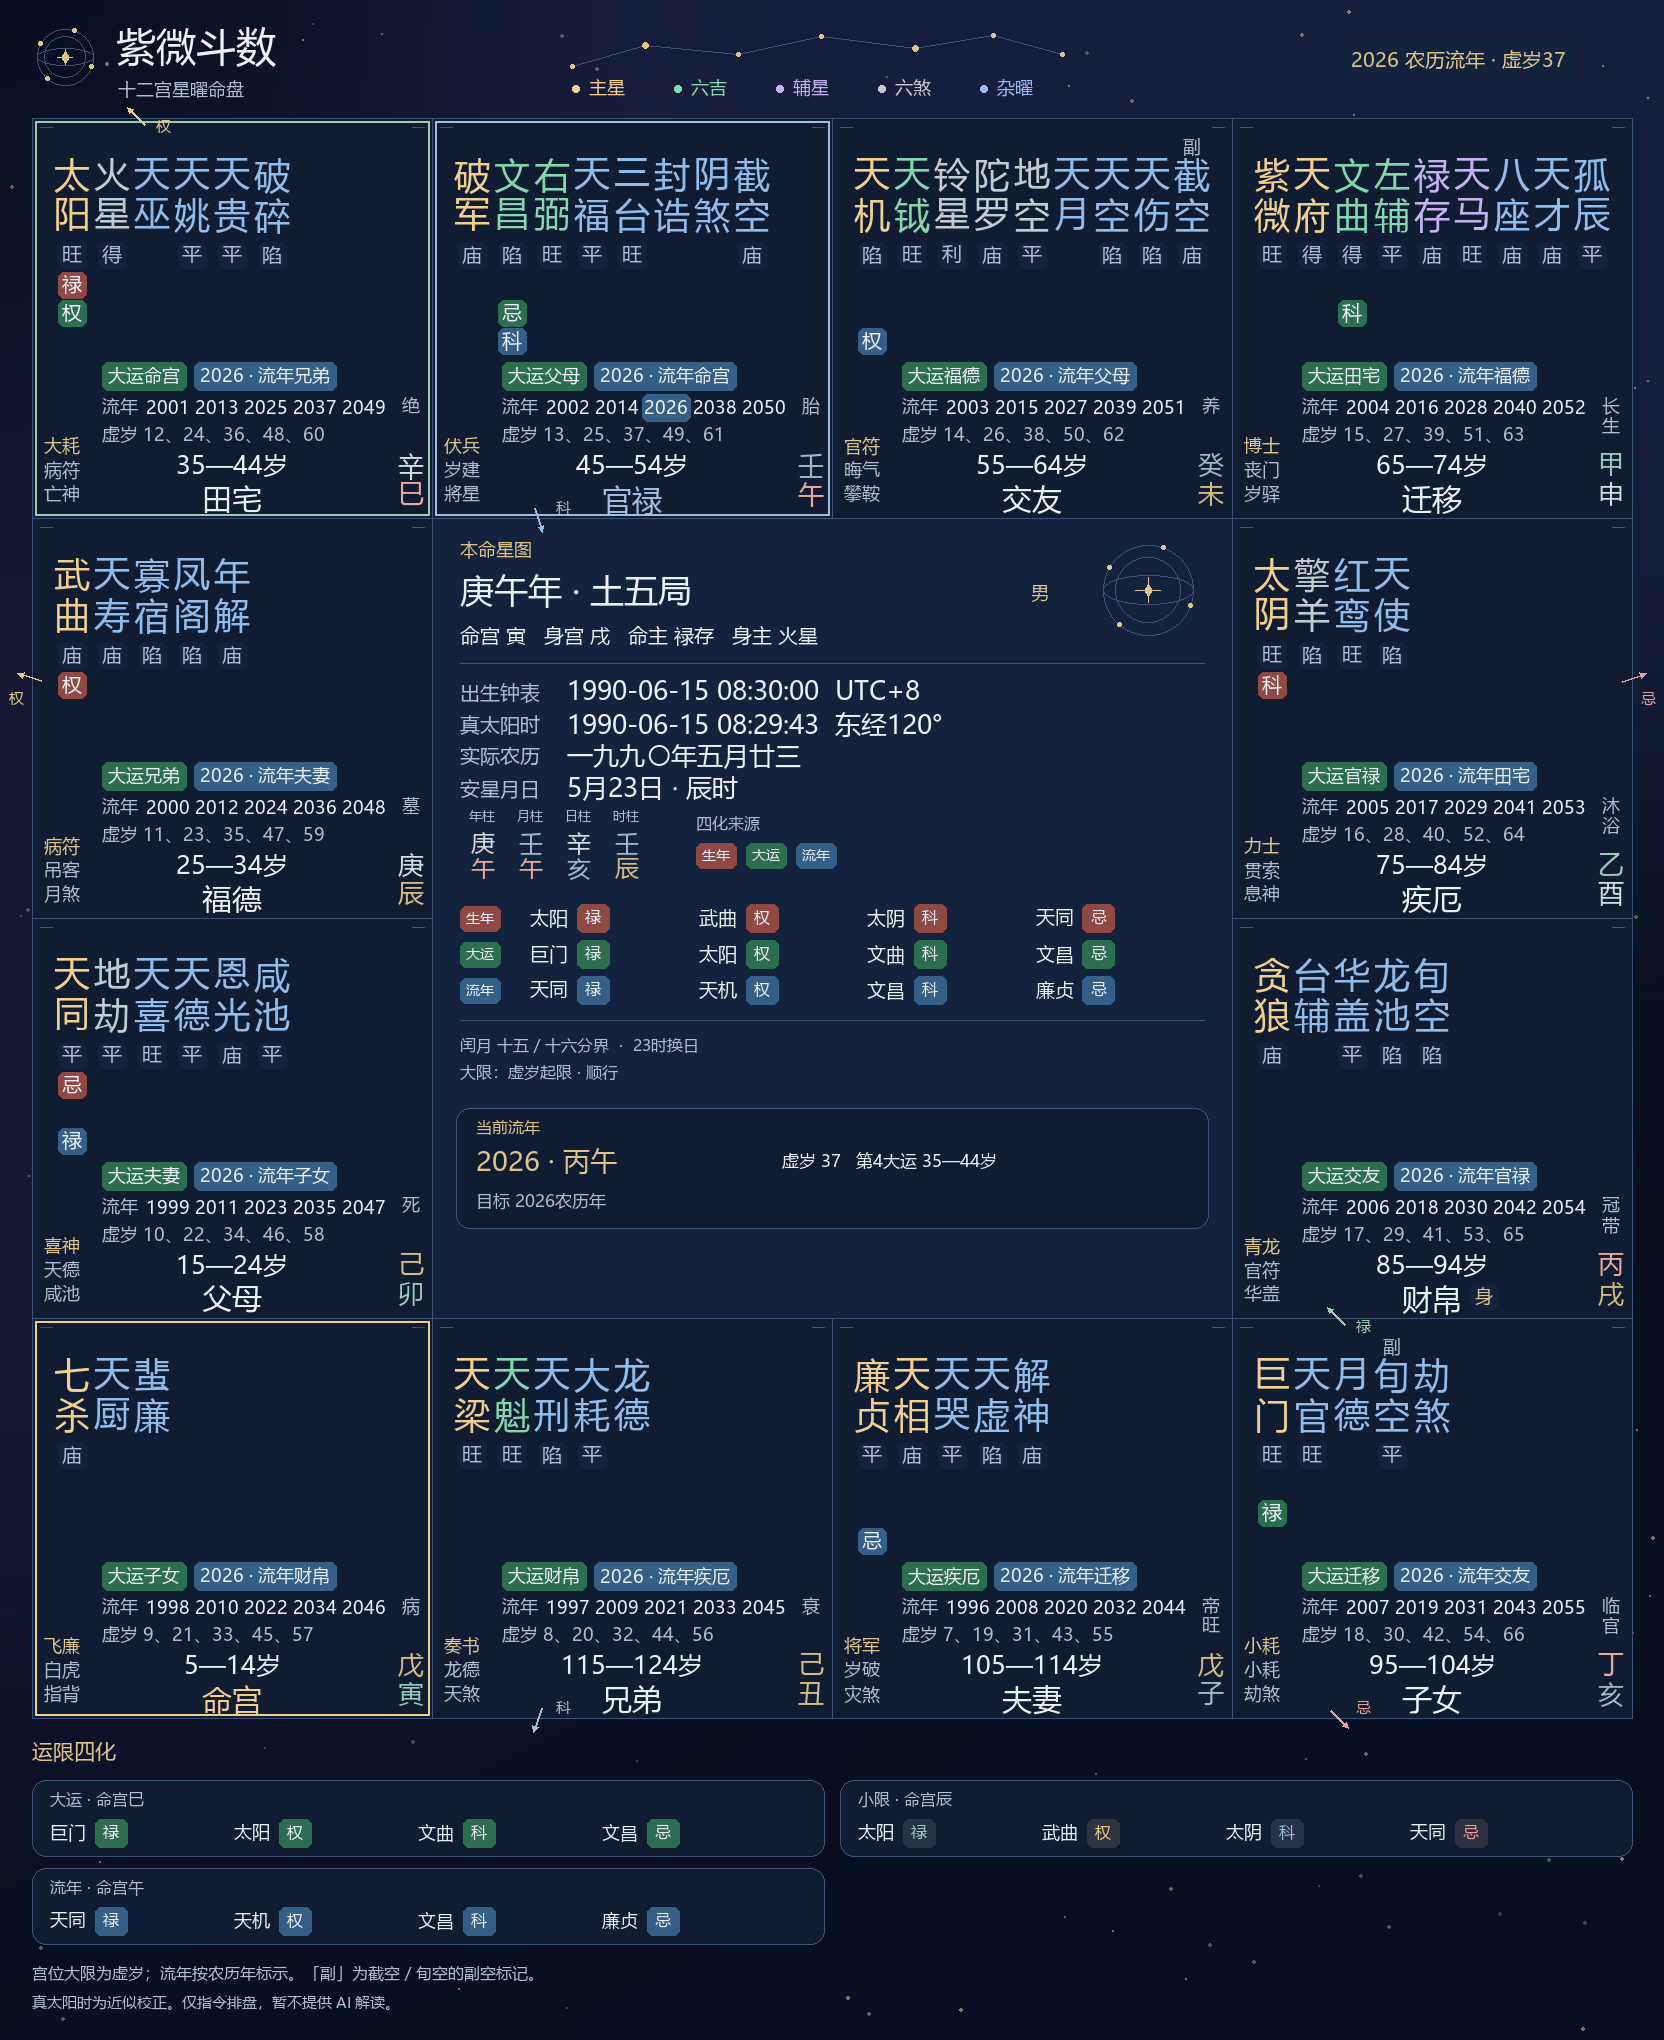
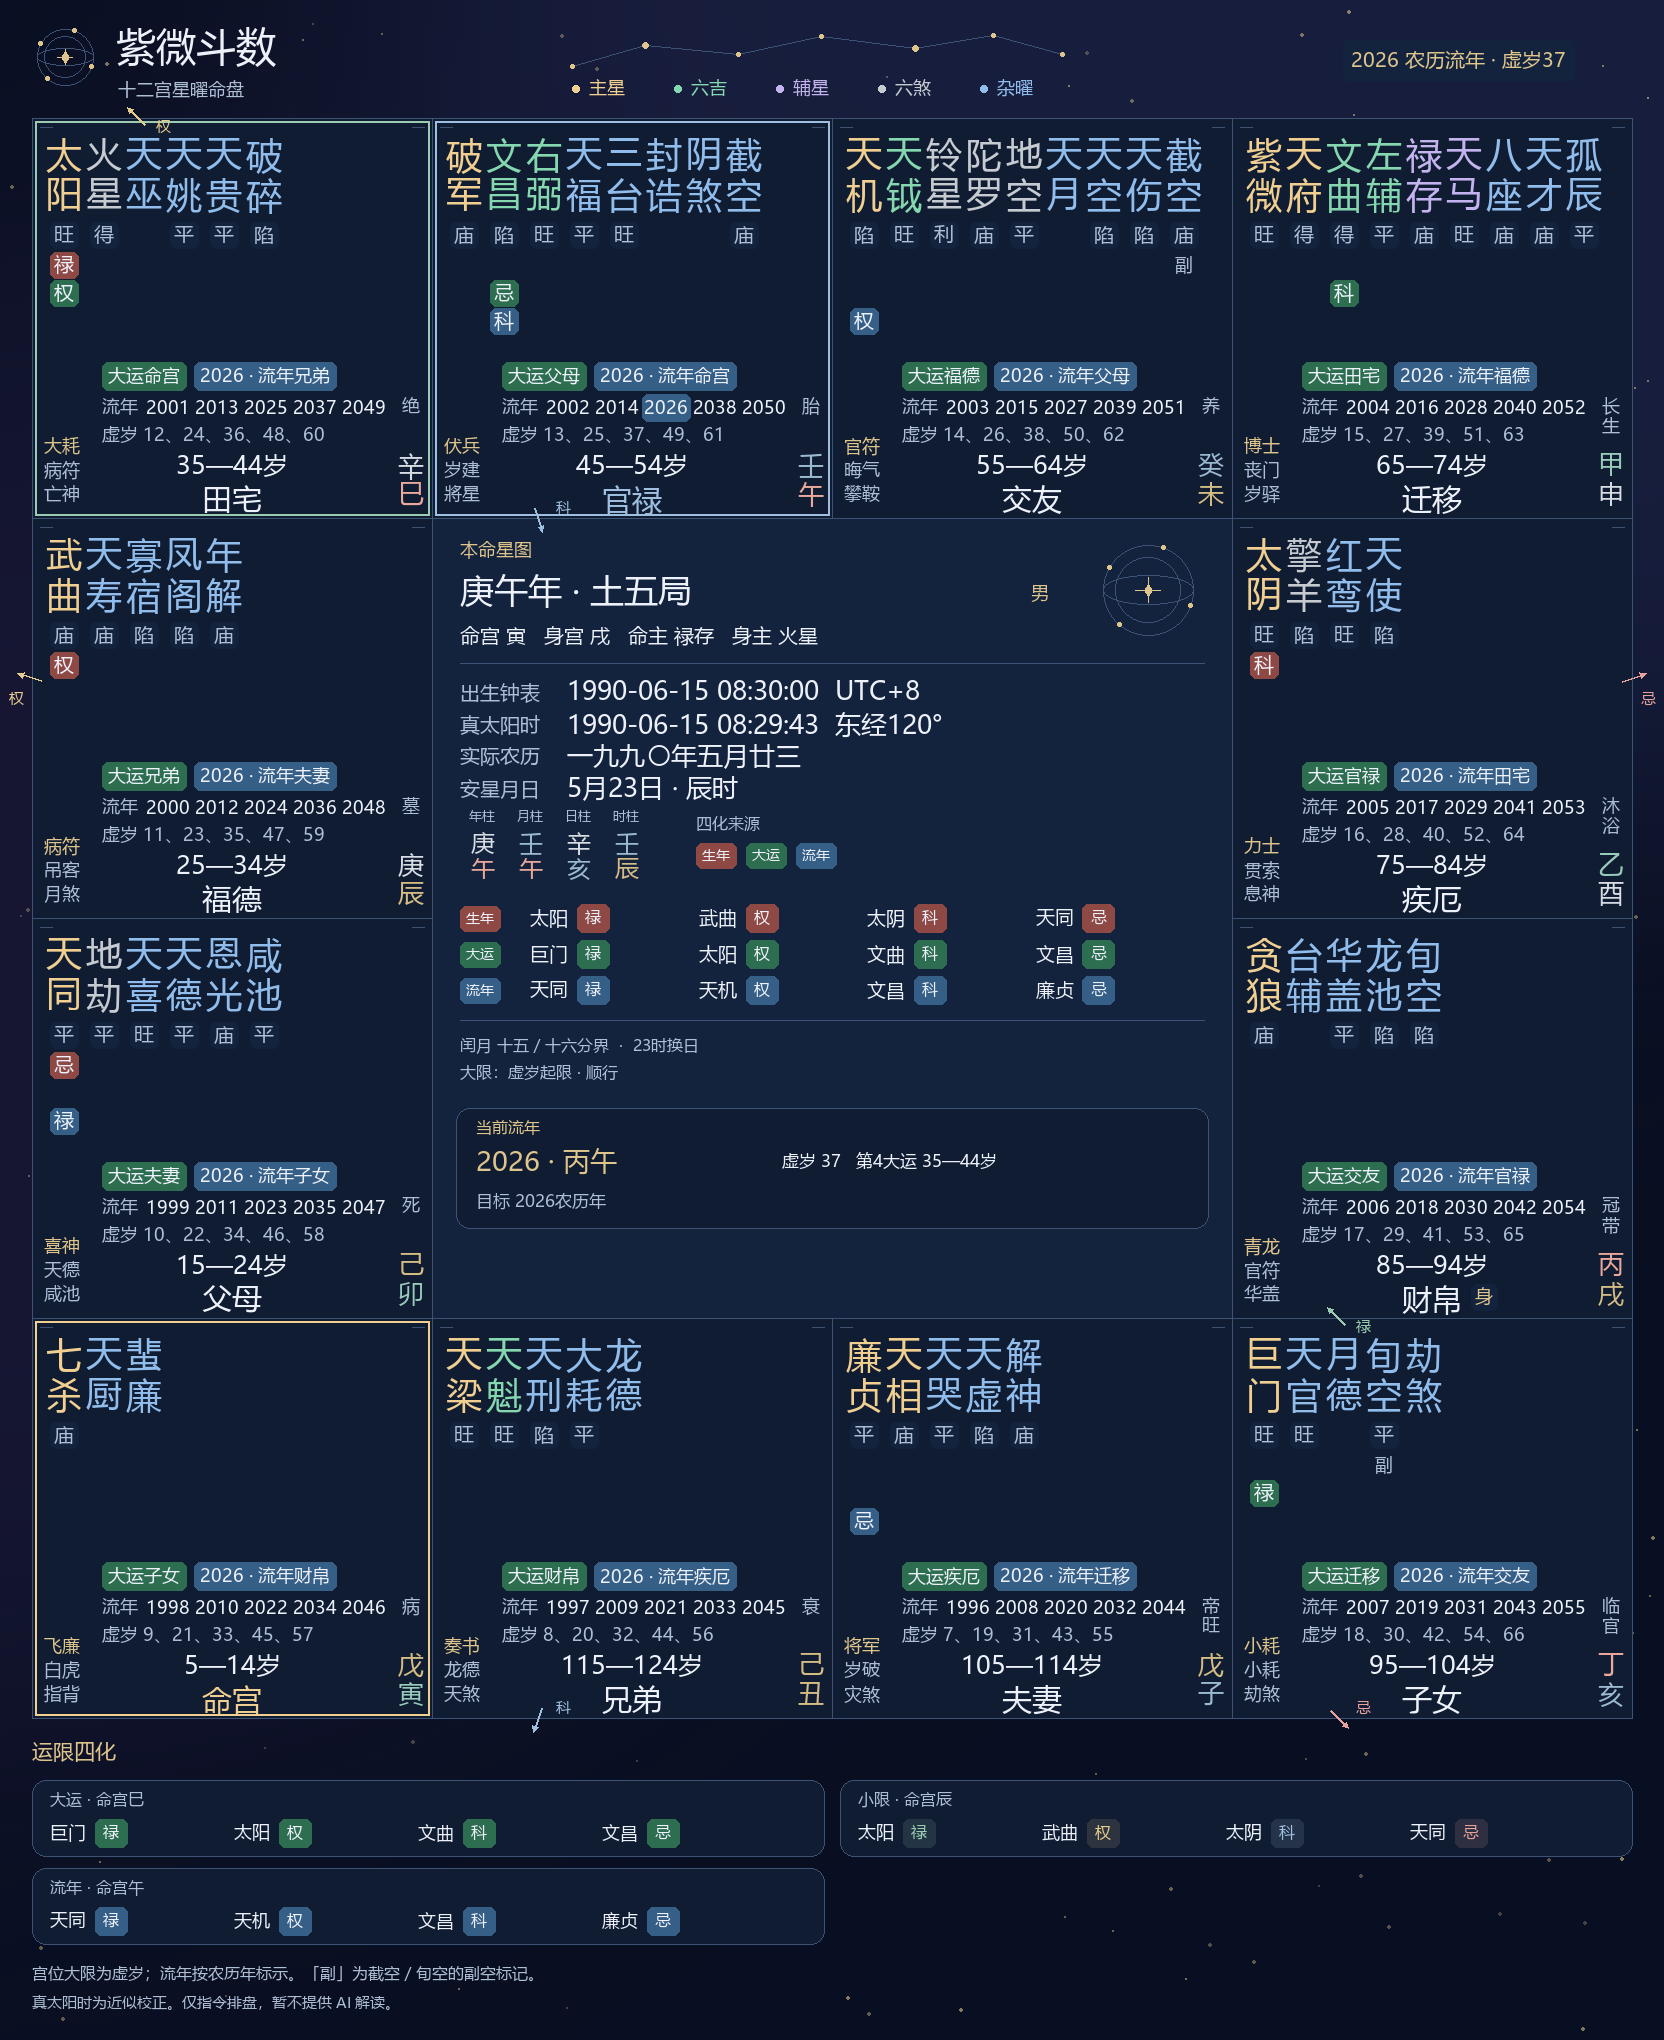
fix: 收紧紫微宫内星列上边距和左边距
星列上边距减至 20 像素、首列字框左边距约 14 像素，保留 36 像素字体和列对齐。
副空标记放到庙旺下方，内框侧边自化标签避开星列，更新六张命盘预览。

验证：853 项 pytest 通过，76 个 Python 文件通过 Ruff 格式及检查；
左右宫界箭头压力场景和普通、密集盘图片核对通过。未推送或部署。

diff --git a/modern_renderer.py b/modern_renderer.py
@@ -82,16 +82,12 @@ def self_hua_arrow_layout(stars, branch, x, y, height):
                     x if side == "left" else x + CELL_WIDTH,
                     y + 24 + (height - 128) * lane,
                 )
-                if source == "outward":
-                    label = (
-                        x - 23 if side == "left" else x + CELL_WIDTH + 9,
-                        anchor[1] + 14,
-                    )
-                else:
-                    label = (
-                        x + 7 if side == "left" else x + CELL_WIDTH - 21,
-                        anchor[1] + 14,
-                    )
+                # Put inner-frame labels on the center side of the boundary,
+                # leaving the palace edge available for its star columns.
+                label = (
+                    x - 23 if side == "left" else x + CELL_WIDTH + 9,
+                    anchor[1] + 14,
+                )
             dx, dy = self_hua_vector(branch, source, cell_height=height)
             arrows.append(
                 {
@@ -301,10 +297,13 @@ def _vertical_star(painter, star, x, y, color, step):
         )
     if star["secondary"]:
         box = painter.font(18).getbbox("副", anchor="lt")
+        # Keep the palace's top edge compact; secondary voids are identified
+        # in the annotation area below brightness, on the same column center.
+        mark_rows = max((mark["row"] + 1 for mark in star["marks"]), default=0)
         painter.text(
             "副",
             center_x - (box[0] + box[2]) / 2,
-            y - 20,
+            y + 118 + mark_rows * 28,
             18,
             painter.palette.muted,
         )
@@ -354,8 +353,8 @@ def _draw_palace(painter, item, chart, x, y, height):
             _vertical_star(
                 painter,
                 star,
-                x + 20 + col * STAR_COLUMN_STEP,
-                y + 40 + bank * STAR_BANK_HEIGHT,
+                x + 12 + col * STAR_COLUMN_STEP,
+                y + 20 + bank * STAR_BANK_HEIGHT,
                 color,
                 STAR_COLUMN_STEP,
             )

diff --git a/tests/test_themes.py b/tests/test_themes.py
@@ -114,9 +114,12 @@ def test_palace_arrows_do_not_cover_any_text_or_neighbor(
     )
     chart = apply_flow(build_chart(r.birth, r.profile), year=2026)
     if case == "crowded":
-        # Stress both side strips with four arrows each, independent of rules.
-        for star, hua in zip(chart["palaces"][4]["stars"], "禄权科忌", strict=False):
-            star["self_hua"] = {"outward": hua, "inward": hua}
+        # Stress inner and outer edges on both sides, independent of rules.
+        for palace_index in (4, 9):
+            for star, hua in zip(
+                chart["palaces"][palace_index]["stars"], "禄权科忌", strict=False
+            ):
+                star["self_hua"] = {"outward": hua, "inward": hua}
     texts, arrows = [], []
     real_text, real_arrow = Painter.text, Painter.arrow
 

diff --git a/tests/test_project.py b/tests/test_project.py
@@ -14,7 +14,7 @@ ROOT = Path(__file__).resolve().parents[1]
 def test_metadata_and_config_are_loadable_and_consistent():
     meta = yaml.safe_load((ROOT / "metadata.yaml").read_text("utf-8"))
     assert meta["name"] == ROOT.name == "astrbot_plugin_ziwei"
-    assert meta["version"] == "2.0.1"
+    assert meta["version"] == "2.0.2"
     assert meta["repo"] == "https://github.com/RioMaker/astrbot_plugin_ziwei"
     tree = ast.parse((ROOT / "main.py").read_text("utf-8"))
     registration = next(

diff --git a/main.py b/main.py
@@ -23,7 +23,7 @@ from .renderer import Renderer, text_chart
 from .rules import RuleProfile
 
 
-@register("astrbot_plugin_ziwei", "Rio", "紫微斗数排盘", "2.0.1")
+@register("astrbot_plugin_ziwei", "Rio", "紫微斗数排盘", "2.0.2")
 class ZiweiPlugin(Star):
     def __init__(self, context: Context, config: AstrBotConfig):
         super().__init__(context)

diff --git a/references/IMPLEMENTATION.md b/references/IMPLEMENTATION.md
@@ -12,7 +12,7 @@
 
 `modern_renderer.py` 保存显示模型与星空命盘绘制逻辑，沿用外围十二宫、中央资料、竖排星曜、底部宫名与年龄、左右宫干支及十二神布局。星曜类别与四化徽标独立，显示分类不改写计算引擎的分组或星曜位置。2.0.1 图面单列五类：主星、六吉（昌曲辅弼魁钺，`AUSPICIOUS_IDS`）、其余辅星（禄存天马）、六煞（羊陀火铃空劫，`MALEFIC_IDS`）、杂曜；白天分别为红、深绿、紫、墨黑、蓝，夜间分别为暖金、青绿、浅紫、暗白、浅蓝。十四主星中的七杀、破军仍属于主星，天空、天刑及空曜等其余杂曜不混入六煞显示组，颜色不是吉凶评级。所有星名统一 36 像素常规字重，按实际字框居中，庙旺、四化与副标记共用列中心；每排九列，密集宫换排，仅增加所在行高度。每个星曜实例独立显示，保留正副星和自化。中宫四柱为年、月、日、时四列，每列上干下支，各字按五行着色；不扩展藏干、生克关系或八字起运。
 
-`void_rule=2` 是默认的正副双星取法。引擎为截空（77）、旬空（78）各生成两个实例，第二个实例的 `secondary=True`，图面在该星上方显示“副”，文字盘显示“(副)”；它表示副空位置，不是辅星类别或权重系数。各实例保留独立 `instance_id`，不会合并或丢弃副空；本次修改不改变空曜规则和落宫。
+`void_rule=2` 是默认的正副双星取法。引擎为截空（77）、旬空（78）各生成两个实例，第二个实例的 `secondary=True`，图面在对应星列的庙旺下方显示“副”，文字盘显示“(副)”；它表示副空位置，不是辅星类别或权重系数。各实例保留独立 `instance_id`，不会合并或丢弃副空；本次修改不改变空曜规则和落宫。2.0.2 将星名顶部留白从 40 收紧为 20 像素，首列实际字框距左边约 14 像素；内框侧边自化标签放在中宫一侧，避免与靠左星列重叠，箭头仍跨越原宫界。
 
 每宫最多展示五个同宫流年年份及虚岁：按年支落宫，每十二年重复。无流盘时从出生后的最早对应年开始；有流盘时取所选年附近的序列，确保选中年在其正确宫位出现。年份受支持区间和十二大限年龄上限约束。流年按目标农历年标注，春节前不能用目标公历年份替代。显示模型与绘制不改变原始排盘结果。
 

diff --git a/AGENTS.md b/AGENTS.md
@@ -2,7 +2,7 @@
 
 单独打开本仓库时，先读取 `../AGENTS.md` 及共享开发基准；独立 worktree 需提供实际基准路径。
 
-当前产品范围（2.0.1，2026-11-05）：仅指令排盘和原有指令版人生图谱，命盘与帮助使用星空模板。暂不注册任何 LLM 工具、对话钩子或 AI 辅助定盘入口，也不启动或恢复历史后台总结。保留历史档案和离线兼容模块；下列 AI、额度、定盘和反馈规范只约束保留代码或未来用户明确要求恢复的功能，不能据此自行重新开放 AI。新安装默认夜间星空，升级保留已有显式主题设置。
+当前产品范围（2.0.2，2026-11-05）：仅指令排盘和原有指令版人生图谱，命盘与帮助使用星空模板。暂不注册任何 LLM 工具、对话钩子或 AI 辅助定盘入口，也不启动或恢复历史后台总结。保留历史档案和离线兼容模块；下列 AI、额度、定盘和反馈规范只约束保留代码或未来用户明确要求恢复的功能，不能据此自行重新开放 AI。新安装默认夜间星空，升级保留已有显式主题设置。
 
 - 插件标识、目录和仓库名称统一为 `astrbot_plugin_ziwei`。
 - `engine.py` 保持纯计算，输入与输出使用一基地支索引；历法、安星、渲染和 AstrBot 适配分层。

diff --git a/VERIFICATION.md b/VERIFICATION.md
@@ -1,5 +1,14 @@
 # 本地验证记录
 
+## 2.0.2 收紧宫内星列边距（2026-11-05）
+
+- 全量 **853 项测试通过**（40.16 秒），76 个 Python 文件通过 Ruff 格式和静态检查。
+- 星名距宫格上边由 40 减为 20 像素，首列字框距左边由约 22 减为约 14 像素；36 像素常规字重和各列中心对齐保持不变。“副”移至该星庙旺下方，顶部不再为副空单独预留一行。
+- 内框侧边自化标签移到中宫一侧，箭头仍跨越原宫界。将原有箭头压力场景扩展至左右两侧宫位，验证各四条内外框箭头不遮挡文字；普通盘、密集盘、昼夜及三层四化的字框和星曜完整性回归通过。
+- 更新六张可分发命盘预览，目视核对普通盘与密集盘的上、左边距、副空标记和宫界，图片尺寸保持不变。未修改计算、落星、群权限或 AI 入口。
+
+以上为本地测试与图片核对，未进行真实 AstrBot／QQ／OneBot 收发验证，未推送或部署。
+
 ## 2.0.1 星曜字号、对齐与五类配色（2026-11-05）
 
 - 全量 **853 项测试通过**（42.11 秒），76 个 Python 文件通过 Ruff 格式与静态检查。纯计算、历法和安星规则未修改，仍仅开放指令排盘。
